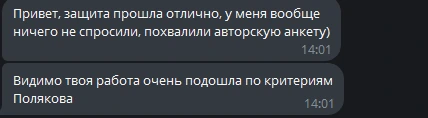
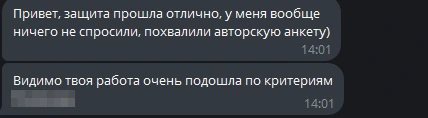
Blur the teacher's surname on review 59
Claude-Session: https://claude.ai/code/session_01AXquZJNyPRiSXCXgqct9Fj

Changed region(s): [[0.0, 0.7627, 0.1822, 0.9153]]

diff --git a/scripts/salon-reviews-20261104/prepare_reviews.py b/scripts/salon-reviews-20261104/prepare_reviews.py
@@ -10,7 +10,7 @@ src, out = Path(sys.argv[1]), Path(sys.argv[2])
 # файл -> (номер отзыва, нижняя граница кадра или None, области для пикселизации)
 JOBS = {
     "1": (58, None, [(44, 124, 79, 146)]),  # «Всё было на высоте», две аватарки в реакциях
-    "2": (59, 120, []),                      # ответ мастера «Крутяк)» с аватаркой срезан целиком
+    "2": (59, 120, [(12, 91, 76, 108)]),     # фамилия преподавателя; ответ мастера «Крутяк)» срезан
 }
 
 

diff --git a/scripts/salon-reviews-20261104/README.md b/scripts/salon-reviews-20261104/README.md
@@ -5,7 +5,8 @@
 ## Что сделано
 
 - `prepare_reviews.py <папка со скриншотами> <out>` — как в `salon-reviews-20261030`: аватарки
-  в реакциях запикселены (58), ответ мастера «Крутяк)» с аватаркой под сообщением клиента срезан (59),
+  в реакциях запикселены (58), ответ мастера «Крутяк)» с аватаркой под сообщением клиента срезан и фамилия преподавателя
+  запикселена (59),
   по пикселю рамки окна с краёв. Полный WebP и миниатюра шириной 420 px. Исходные PNG в репозиторий
   не кладём: на них аватарки без пикселизации.
 - `img/` — готовые `review-58.webp`, `review-59.webp` и `thumbs/` (на сайте — `assets/img/reviews/`).
